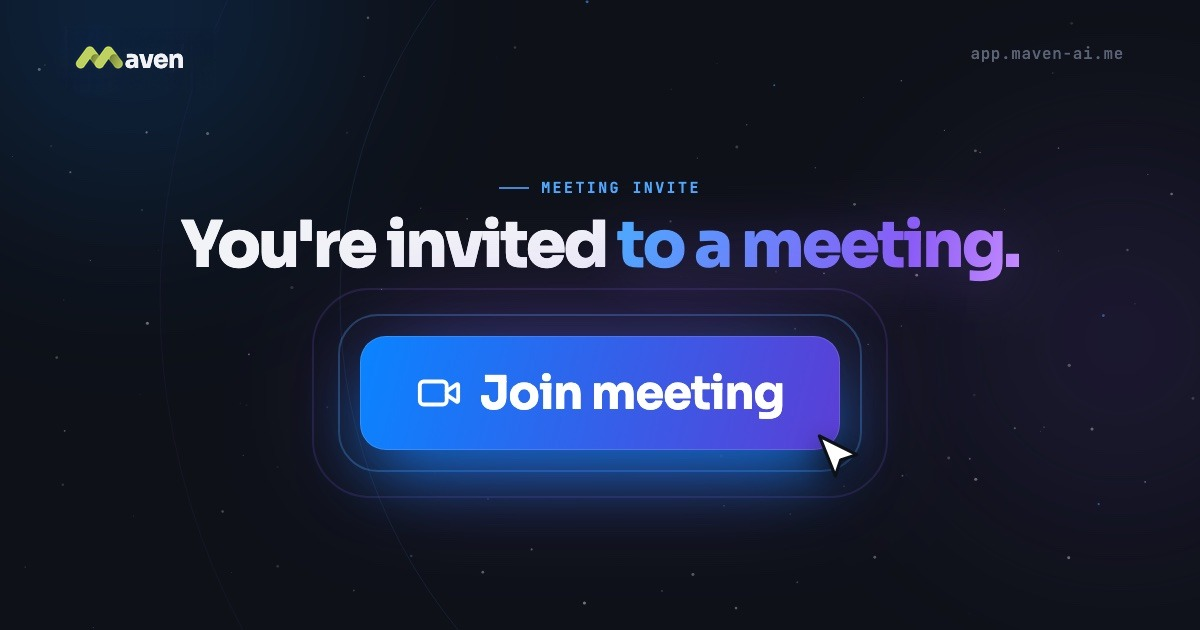
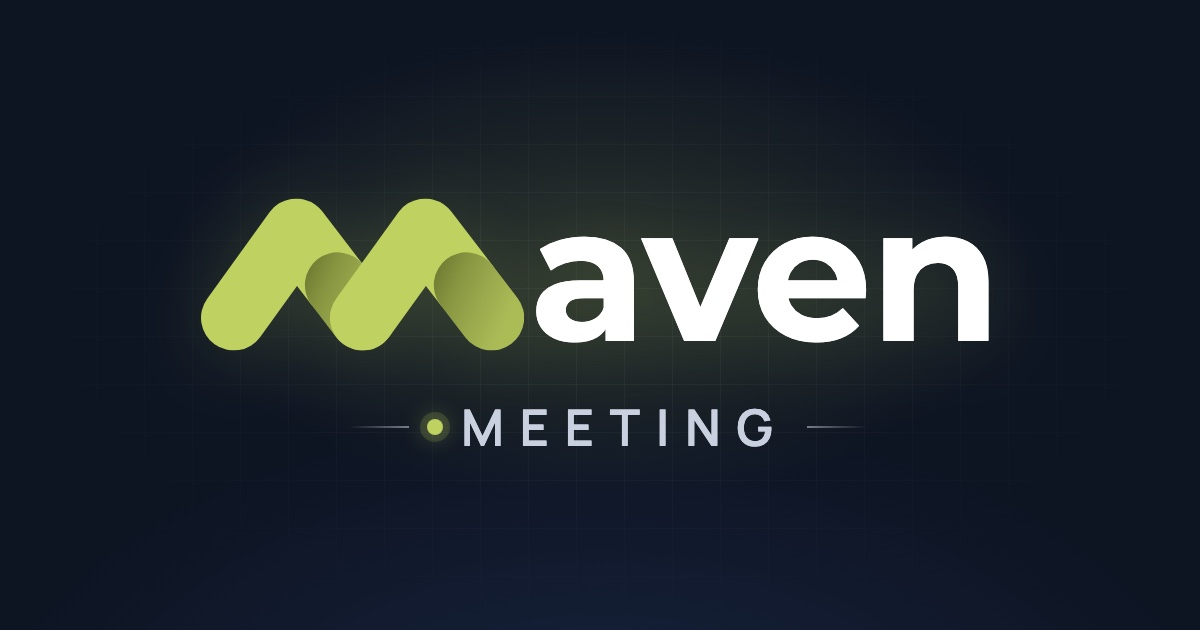
feat(links): tarjeta «Maven Meeting» y los links de Maven abren en la app de computador
- La vista previa de los links de reunión (WhatsApp, Telegram…) es ahora «Maven»
  grande y abajo «Meeting», con la M de la marca. También para /call/<sala>.
- La app de computador registra maven:// y abre la ruta pedida adentro, sin
  recargar (no corta llamadas). En el navegador de un computador, con sesión,
  Maven ofrece «Abrir en la app» / «Abrir siempre en la app».

diff --git a/frontend/src/components/AbrirEnApp.tsx b/frontend/src/components/AbrirEnApp.tsx
@@ -1,0 +1,113 @@
+import { useEffect, useRef, useState } from "react";
+import { useLocation, useNavigate } from "react-router-dom";
+import { ExternalLink, Loader2, X } from "lucide-react";
+import { useAuth } from "@/hooks/useAuth";
+import { useLanguage } from "@/hooks/useLanguage";
+import { escritorio } from "@/lib/escritorio";
+import { debeOfrecerApp, enlaceDeApp, guardarPreferencia, leerPreferencia } from "@/lib/abrirEnApp";
+
+// LOS LINKS DE MAVEN ABREN EN LA APP DE COMPUTADOR (Alvaro, 17/11/2026). Ver
+// lib/abrirEnApp.ts. Dos mitades:
+//  · dentro de la app: recibe la ruta que pidió un link maven:// y navega a ella;
+//  · en el navegador de un computador: ofrece «Abrir en la app» (una vez por
+//    pestaña) o la abre sola si la persona eligió «Siempre».
+
+const DESCARGAS = `${import.meta.env.VITE_SUPABASE_URL}/storage/v1/object/public/descargas`;
+
+export function AbrirEnApp() {
+  const navigate = useNavigate();
+  const { pathname, search, hash } = useLocation();
+  const { user } = useAuth();
+  const { t } = useLanguage();
+  const [modo, setModo] = useState<"oculto" | "ofrecer" | "abriendo">("oculto");
+  const decidido = useRef(false);
+
+  // Dentro de la app: un link maven:// abre su ruta sin recargar (no corta llamadas).
+  useEffect(() => {
+    const app = escritorio();
+    if (!app?.alAbrirRuta) return;
+    return app.alAbrirRuta((ruta) => navigate(ruta));
+  }, [navigate]);
+
+  // En el navegador: se decide UNA vez por pestaña, con la primera ruta con sesión.
+  useEffect(() => {
+    if (decidido.current || !user) return;
+    decidido.current = true;
+    const ua = navigator.userAgent || "";
+    const tactil = (navigator.maxTouchPoints ?? 0) > 1; // iPad se hace pasar por Mac
+    if (tactil || !debeOfrecerApp({ ua, enApp: !!escritorio(), conSesion: true, ruta: pathname })) return;
+    const pref = leerPreferencia();
+    if (pref === "nunca") return;
+    const ruta = `${pathname}${search}${hash}`;
+    if (pref === "siempre") {
+      window.location.href = enlaceDeApp(ruta);
+      setModo("abriendo");
+      return;
+    }
+    setModo("ofrecer");
+  }, [user, pathname, search, hash]);
+
+  useEffect(() => {
+    if (modo !== "abriendo") return;
+    const id = window.setTimeout(() => setModo("oculto"), 12_000);
+    return () => window.clearTimeout(id);
+  }, [modo]);
+
+  if (modo === "oculto") return null;
+
+  const abrir = (siempre: boolean) => {
+    if (siempre) guardarPreferencia("siempre");
+    window.location.href = enlaceDeApp(`${pathname}${search}${hash}`);
+    setModo("abriendo");
+  };
+  const quedarme = () => setModo("oculto");
+  const esMac = /Macintosh/i.test(navigator.userAgent || "");
+  const descarga = `${DESCARGAS}/${esMac ? "Maven-Mac.dmg" : "Maven-Windows.exe"}`;
+
+  return (
+    <div
+      role="dialog"
+      aria-label={t("pwa.app.titulo")}
+      className="vidrio fixed right-4 top-4 z-[200] w-[min(360px,calc(100vw-32px))] rounded-2xl border border-border/60 p-4 shadow-2xl"
+    >
+      {modo === "ofrecer" ? (
+        <div className="grid gap-3">
+          <div className="flex items-start justify-between gap-3">
+            <div className="grid gap-1">
+              <p className="text-sm font-semibold text-foreground">{t("pwa.app.titulo")}</p>
+              <p className="text-xs text-muted-foreground">{t("pwa.app.descripcion")}</p>
+            </div>
+            <button type="button" onClick={quedarme} aria-label={t("pwa.app.quedarme")} className="rounded-md p-1 text-muted-foreground hover:bg-muted hover:text-foreground">
+              <X className="h-4 w-4" />
+            </button>
+          </div>
+          <div className="flex flex-wrap gap-2">
+            <button type="button" onClick={() => abrir(true)} className="inline-flex items-center gap-1.5 rounded-full bg-primary px-3.5 py-1.5 text-xs font-semibold text-primary-foreground hover:bg-primary/90">
+              <ExternalLink className="h-3.5 w-3.5" /> {t("pwa.app.siempre")}
+            </button>
+            <button type="button" onClick={() => abrir(false)} className="rounded-full border border-border px-3.5 py-1.5 text-xs font-medium text-foreground hover:bg-muted">
+              {t("pwa.app.abrir")}
+            </button>
+            <button type="button" onClick={quedarme} className="rounded-full px-2 py-1.5 text-xs text-muted-foreground hover:text-foreground">
+              {t("pwa.app.quedarme")}
+            </button>
+          </div>
+        </div>
+      ) : (
+        <div className="grid gap-2">
+          <p className="flex items-center gap-2 text-sm font-semibold text-foreground">
+            <Loader2 className="h-4 w-4 animate-spin motion-reduce:animate-none" /> {t("pwa.app.abriendo")}
+          </p>
+          <div className="flex flex-wrap gap-x-4 gap-y-1 text-xs">
+            <button type="button" onClick={quedarme} className="text-muted-foreground underline-offset-2 hover:text-foreground hover:underline">
+              {t("pwa.app.quedarme")}
+            </button>
+            <a href={descarga} className="text-primary underline-offset-2 hover:underline">{t("pwa.app.noSeAbrio")}</a>
+          </div>
+        </div>
+      )}
+    </div>
+  );
+}
+
+export default AbrirEnApp;

diff --git a/desktop/src/main.js b/desktop/src/main.js
@@ -69,7 +69,63 @@ if (!app.isPackaged) app.setPath("userData", path.join(app.getPath("appData"), "
 if (!app.requestSingleInstanceLock()) {
   app.quit();
 } else {
-  app.on("second-instance", () => mostrar());
+  // En Windows un link maven:// abre otra copia con el link en argv: esta lo recibe.
+  app.on("second-instance", (_e, argv) => {
+    const enlace = (argv || []).find((a) => typeof a === "string" && a.startsWith(`${PROTOCOLO}://`));
+    if (enlace) abrirEnlace(enlace);
+    else mostrar();
+  });
+}
+
+// ── Los links de Maven abren en la app (Alvaro, 17/11/2026: «que me abran la
+// aplicación cuando lo quiero abrir, no en el navegador») ─────────────────────
+// La página, en el navegador, ofrece «Abrir en la app» con maven://abrir?ruta=/…
+// El sistema se lo pasa a la app: en Mac por «open-url», en Windows por argv.
+const PROTOCOLO = "maven";
+let enlacePendiente = null;
+
+/** maven://abrir?ruta=/call/x → https://app.maven-ai.me/call/x. Solo rutas de Maven. */
+function destinoDeEnlace(enlace) {
+  try {
+    const u = new URL(enlace);
+    if (u.protocol !== `${PROTOCOLO}:`) return null;
+    const ruta = u.searchParams.get("ruta") || "/";
+    if (!ruta.startsWith("/") || ruta.startsWith("//")) return null;
+    const destino = new URL(ruta, "https://app.maven-ai.me");
+    return destino.origin === "https://app.maven-ai.me" ? destino : null;
+  } catch {
+    return null;
+  }
+}
+
+function abrirEnlace(enlace) {
+  const destino = destinoDeEnlace(enlace);
+  if (!destino) return mostrar();
+  if (!ventana) {
+    enlacePendiente = destino.href;
+    if (app.isReady()) crearVentana();
+    return;
+  }
+  // Si Maven ya está cargado, la ruta se abre ADENTRO (sin recargar): una
+  // llamada o un Cowork en curso no se cortan.
+  const actual = ventana.webContents.getURL();
+  if (actual.startsWith("https://app.maven-ai.me/")) {
+    ventana.webContents.send("maven:abrir-ruta", destino.pathname + destino.search + destino.hash);
+  } else {
+    ventana.loadURL(destino.href);
+  }
+  mostrar();
+}
+
+app.on("open-url", (e, enlace) => {
+  e.preventDefault();
+  if (app.isReady()) abrirEnlace(enlace);
+  else { const d = destinoDeEnlace(enlace); if (d) enlacePendiente = d.href; }
+});
+if (process.platform === "win32") {
+  const enlace = process.argv.find((a) => typeof a === "string" && a.startsWith(`${PROTOCOLO}://`));
+  const d = enlace ? destinoDeEnlace(enlace) : null;
+  if (d) enlacePendiente = d.href;
 }
 
 function mostrar() {
@@ -158,7 +214,8 @@ function crearVentana() {
   });
 
   ventana.webContents.setUserAgent(`${ventana.webContents.getUserAgent()} MavenEscritorio/${app.getVersion()}`);
-  ventana.loadURL(URL_MAVEN);
+  ventana.loadURL(enlacePendiente || URL_MAVEN);
+  enlacePendiente = null;
 
   // Prueba desde el código: MAVEN_CAPTURA=/ruta.png guarda cómo se ve y cierra.
   if (!app.isPackaged && process.env.MAVEN_CAPTURA) {
@@ -370,6 +427,8 @@ function crearMenu() {
 // ── Arranque ─────────────────────────────────────────────────────────────────
 app.whenReady().then(() => {
   app.setAppUserModelId("me.maven-ai.escritorio"); // avisos con nombre en Windows
+  // maven:// abre esta app (solo la instalada: probando desde el código no se registra).
+  if (app.isPackaged) app.setAsDefaultProtocolClient(PROTOCOLO);
 
   // La primera vez queda puesta para abrir al prender (Alvaro lo pidió así).
   // (Solo en la app instalada: probarla desde el código no toca el computador.)

diff --git a/frontend/src/test/abrirEnApp.test.ts b/frontend/src/test/abrirEnApp.test.ts
@@ -1,0 +1,38 @@
+import { describe, it, expect } from "vitest";
+import { debeOfrecerApp, enlaceDeApp } from "@/lib/abrirEnApp";
+
+// Alvaro, 17/11/2026: «que me abran la aplicación cuando lo quiero abrir, no en
+// el navegador». En un computador, con sesión, Maven ofrece abrir en la app.
+
+const MAC = "Mozilla/5.0 (Macintosh; Intel Mac OS X 10_15_7) AppleWebKit/537.36 Chrome/157 Safari/537.36";
+const WIN = "Mozilla/5.0 (Windows NT 10.0; Win64; x64) AppleWebKit/537.36 Chrome/157 Safari/537.36";
+const CEL = "Mozilla/5.0 (iPhone; CPU iPhone OS 18_0 like Mac OS X) Mobile/15E148";
+
+const app = Object.values(import.meta.glob("../App.tsx", { query: "?raw", import: "default", eager: true }))[0] as string;
+
+describe("abrir los links de Maven en la app", () => {
+  it("en el navegador de Mac o Windows, con sesión, se ofrece", () => {
+    expect(debeOfrecerApp({ ua: MAC, enApp: false, conSesion: true, ruta: "/call/sala-1" })).toBe(true);
+    expect(debeOfrecerApp({ ua: WIN, enApp: false, conSesion: true, ruta: "/cowork" })).toBe(true);
+  });
+
+  it("no se ofrece en el teléfono, dentro de la app, sin sesión ni a invitados", () => {
+    expect(debeOfrecerApp({ ua: CEL, enApp: false, conSesion: true, ruta: "/cowork" })).toBe(false);
+    expect(debeOfrecerApp({ ua: MAC, enApp: true, conSesion: true, ruta: "/cowork" })).toBe(false);
+    expect(debeOfrecerApp({ ua: MAC, enApp: false, conSesion: false, ruta: "/cowork" })).toBe(false);
+    expect(debeOfrecerApp({ ua: MAC, enApp: false, conSesion: true, ruta: "/entrar/abc123" })).toBe(false);
+    expect(debeOfrecerApp({ ua: MAC, enApp: false, conSesion: true, ruta: "/unirse/xyz" })).toBe(false);
+    expect(debeOfrecerApp({ ua: MAC, enApp: false, conSesion: true, ruta: "/" })).toBe(false);
+    expect(debeOfrecerApp({ ua: MAC, enApp: false, conSesion: true, ruta: "/login" })).toBe(false);
+  });
+
+  it("el link de la app lleva la ruta y nunca otro sitio", () => {
+    expect(enlaceDeApp("/call/sala-1?x=1")).toBe("maven://abrir?ruta=%2Fcall%2Fsala-1%3Fx%3D1");
+    expect(enlaceDeApp("//otro.com/x")).toBe("maven://abrir?ruta=%2F");
+    expect(enlaceDeApp("https://otro.com")).toBe("maven://abrir?ruta=%2F");
+  });
+
+  it("está montado en toda la app", () => {
+    expect(app).toMatch(/<AbrirEnApp \/>/);
+  });
+});

diff --git a/frontend/src/lib/abrirEnApp.ts b/frontend/src/lib/abrirEnApp.ts
@@ -1,0 +1,42 @@
+// LOS LINKS DE MAVEN ABREN EN LA APP DE COMPUTADOR (Alvaro, 17/11/2026: «que me
+// abran la aplicación cuando lo quiero abrir, no en el navegador»).
+//
+// En el navegador de un computador, al abrir un link de Maven se ofrece «Abrir en
+// la app». Si la persona marca «Siempre», las próximas veces se abre solo. La app
+// recibe maven://abrir?ruta=/… (desktop/src/main.js) y abre esa ruta adentro.
+
+export const CLAVE_PREFERENCIA = "maven.abrirEnApp";
+export type Preferencia = "siempre" | "nunca" | null;
+
+/** Rutas públicas o de invitados: ahí no se ofrece la app (quien entra puede no tenerla). */
+const RUTAS_PUBLICAS = [
+  /^\/$/, /^\/(es|en|de|fr|it|pt)(\/|$)/, /^\/(login|register|forgot-password|reset-password|privacidad|documentation|diagnostico-pantalla|concept|credentials)(\/|$)/,
+  /^\/(entrar|unirse|aportar|subir|chatter|hoja)\//, /^\/portal(\/|$)/,
+];
+
+/** ¿Hay que ofrecer abrir en la app? Solo en un navegador de computador, con sesión. */
+export function debeOfrecerApp(p: { ua: string; enApp: boolean; conSesion: boolean; ruta: string }): boolean {
+  if (p.enApp || !p.conSesion) return false;
+  if (/Android|iPhone|iPad|iPod|Mobile/i.test(p.ua)) return false;
+  if (!/Macintosh|Windows/i.test(p.ua)) return false;
+  return !RUTAS_PUBLICAS.some((re) => re.test(p.ruta));
+}
+
+/** El link que abre la app en esa ruta. */
+export function enlaceDeApp(ruta: string): string {
+  const limpia = ruta.startsWith("/") && !ruta.startsWith("//") ? ruta : "/";
+  return `maven://abrir?ruta=${encodeURIComponent(limpia)}`;
+}
+
+export function leerPreferencia(): Preferencia {
+  try {
+    const v = localStorage.getItem(CLAVE_PREFERENCIA);
+    return v === "siempre" || v === "nunca" ? v : null;
+  } catch {
+    return null;
+  }
+}
+
+export function guardarPreferencia(v: Exclude<Preferencia, null>): void {
+  try { localStorage.setItem(CLAVE_PREFERENCIA, v); } catch { /* sin almacenamiento: se pregunta otra vez */ }
+}

diff --git a/frontend/src/lib/i18n/pwa.ts b/frontend/src/lib/i18n/pwa.ts
@@ -6,6 +6,14 @@ export const PREFIJOS_PWA = ["pwa.", "push."] as const;
 
 export const pwa = {
   // PWA: instalar Maven en el teléfono y avisos push en este dispositivo
+  // Abrir los links de Maven en la app de computador (17/11/2026)
+  "pwa.app.titulo": { es: "Abrir en la app de Maven", en: "Open in the Maven app" },
+  "pwa.app.descripcion": { es: "Se abre en la app de tu computador, no en el navegador.", en: "It opens in the app on your computer, not in the browser." },
+  "pwa.app.abrir": { es: "Abrir en la app", en: "Open in the app" },
+  "pwa.app.quedarme": { es: "Seguir en el navegador", en: "Stay in the browser" },
+  "pwa.app.siempre": { es: "Abrir siempre en la app", en: "Always open in the app" },
+  "pwa.app.abriendo": { es: "Abriendo en la app de Maven…", en: "Opening in the Maven app…" },
+  "pwa.app.noSeAbrio": { es: "¿No se abrió? Descarga la app", en: "Didn't open? Download the app" },
   "pwa.instalar.titulo": { es: "Instala Maven en tu teléfono", en: "Install Maven on your phone" },
   "pwa.instalar.descripcion": { es: "Abre más rápido y recibe avisos de mensajes aunque esté cerrada.", en: "Opens faster and gets message alerts even when it's closed." },
   "pwa.instalar.boton": { es: "Instalar Maven", en: "Install Maven" },

diff --git a/frontend/src/lib/tarjetasDeLink.ts b/frontend/src/lib/tarjetasDeLink.ts
@@ -39,12 +39,13 @@ export const TARJETAS = {
   reunion: {
     archivo: "og-reunion.html",
     url: `${BASE}/`,
-    titulo: "You're invited to a meeting",
-    descripcion: "Tap the link and join from your browser. No downloads.",
-    // v=2: la imagen del botón «Join meeting» (R4), elegida el 11/11. Subir el
-    // número al cambiarla, para que WhatsApp no siga mostrando la vieja.
-    imagen: `${BASE}/og-reunion.jpg?v=7`,
-    alt: "Join meeting on Maven",
+    titulo: "Maven Meeting",
+    descripcion: "Tap the link to join the meeting.",
+    // v=8 (Alvaro, 17/11/2026): «que diga Maven y abajito Meeting, bonito, para
+    // compartir en WhatsApp y Telegram». Subir el número al cambiar la imagen,
+    // para que WhatsApp no siga mostrando la vieja.
+    imagen: `${BASE}/og-reunion.jpg?v=8`,
+    alt: "Maven Meeting",
   },
   cowork: {
     archivo: "og-cowork.html",

diff --git a/frontend/src/App.tsx b/frontend/src/App.tsx
@@ -8,6 +8,7 @@ import { QueryClient, QueryClientProvider } from "@tanstack/react-query";
 import { BrowserRouter, Routes, Route, Navigate } from "react-router-dom";
 import { ThemeProvider } from "next-themes";
 import { AuthProvider } from "@/hooks/useAuth";
+import { AbrirEnApp } from "@/components/AbrirEnApp";
 import { useSkinSync } from "@/hooks/useSkin";
 import { LanguageProvider, idiomaInicial } from "@/hooks/useLanguage";
 import { IDIOMAS } from "@/lib/idiomas";
@@ -290,6 +291,8 @@ const App = () => (
           <AvisoRelojDesfasado />
           <Sonner />
           <BrowserRouter>
+            {/* Los links de Maven abren en la app de computador (17/11/2026). */}
+            <AbrirEnApp />
             <Suspense fallback={<LoadingFallback />}>
             <Routes>
               {/* Public routes */}

diff --git a/desktop/src/preload.js b/desktop/src/preload.js
@@ -55,6 +55,12 @@ contextBridge.exposeInMainWorld("mavenEscritorio", {
   },
   /** Segundos sin tocar teclado ni mouse en todo el computador. */
   inactividad: () => ipcRenderer.invoke("maven:inactividad"),
+  /** Un link maven:// pidió abrir esta ruta de Maven (sin recargar la página). */
+  alAbrirRuta: (cb) => {
+    const f = (_e, ruta) => { if (typeof ruta === "string" && ruta.startsWith("/")) cb(ruta); };
+    ipcRenderer.on("maven:abrir-ruta", f);
+    return () => ipcRenderer.removeListener("maven:abrir-ruta", f);
+  },
   /** Memoria: { app_mb, equipo_gb, libre_gb }. */
   memoria: () => ipcRenderer.invoke("maven:memoria"),
   /** Cada minuto: los tramos de app/página al frente (ver desktop/src/apps.js). */

diff --git a/frontend/src/test/tarjetasDeLink.test.ts b/frontend/src/test/tarjetasDeLink.test.ts
@@ -24,9 +24,9 @@ describe("la tarjeta de WhatsApp de cada link", () => {
 
   it("una invitación a reunión dice que es una reunión", () => {
     const html = conTarjeta(INDEX, TARJETAS.reunion);
-    expect(html).toContain(`property="og:title" content="You&#39;re invited to a meeting"`.replace("&#39;", "'"));
+    expect(html).toContain('property="og:title" content="Maven Meeting"');
     expect(html).toContain("og-reunion.jpg");
-    expect(html).toContain('name="twitter:image" content="https://app.maven-ai.me/og-reunion.jpg?v=7"');
+    expect(html).toContain('name="twitter:image" content="https://app.maven-ai.me/og-reunion.jpg?v=8"');
   });
 
   it("un link de Cowork dice que el equipo te llama", () => {

diff --git a/frontend/src/lib/escritorio.ts b/frontend/src/lib/escritorio.ts
@@ -25,6 +25,8 @@ export type MavenEscritorio = {
   alCambiarFlotante: (cb: (flotando: boolean) => void) => () => void;
   inactividad: () => Promise<number | null>;
   alUsoDeApps: (cb: (lote: TramoDeApp[]) => void) => () => void;
+  /** Un link maven:// pidió abrir esta ruta (versiones de la app desde el 17/11/2026). */
+  alAbrirRuta?: (cb: (ruta: string) => void) => () => void;
 };
 
 /** La app de computador, o null en el navegador (o en una versión vieja de la app sin esa función). */
